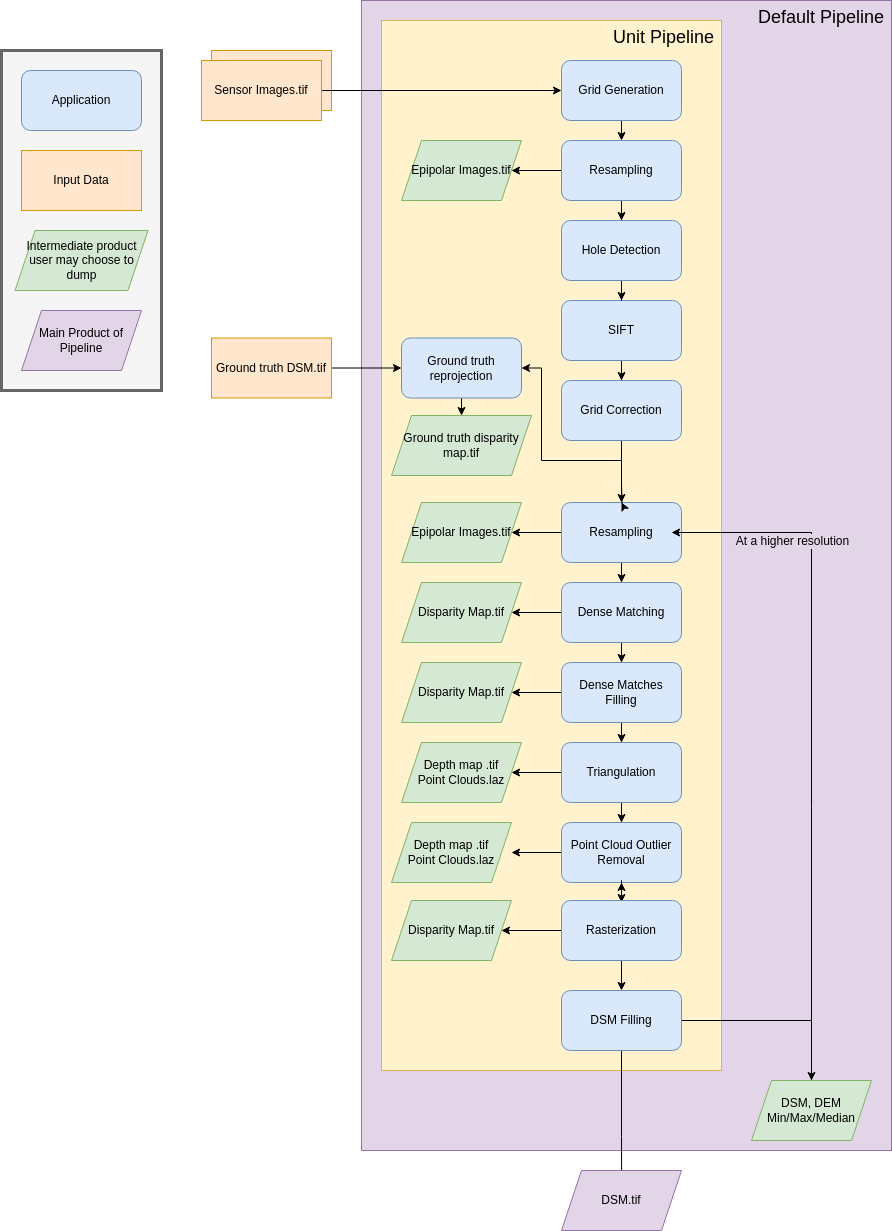
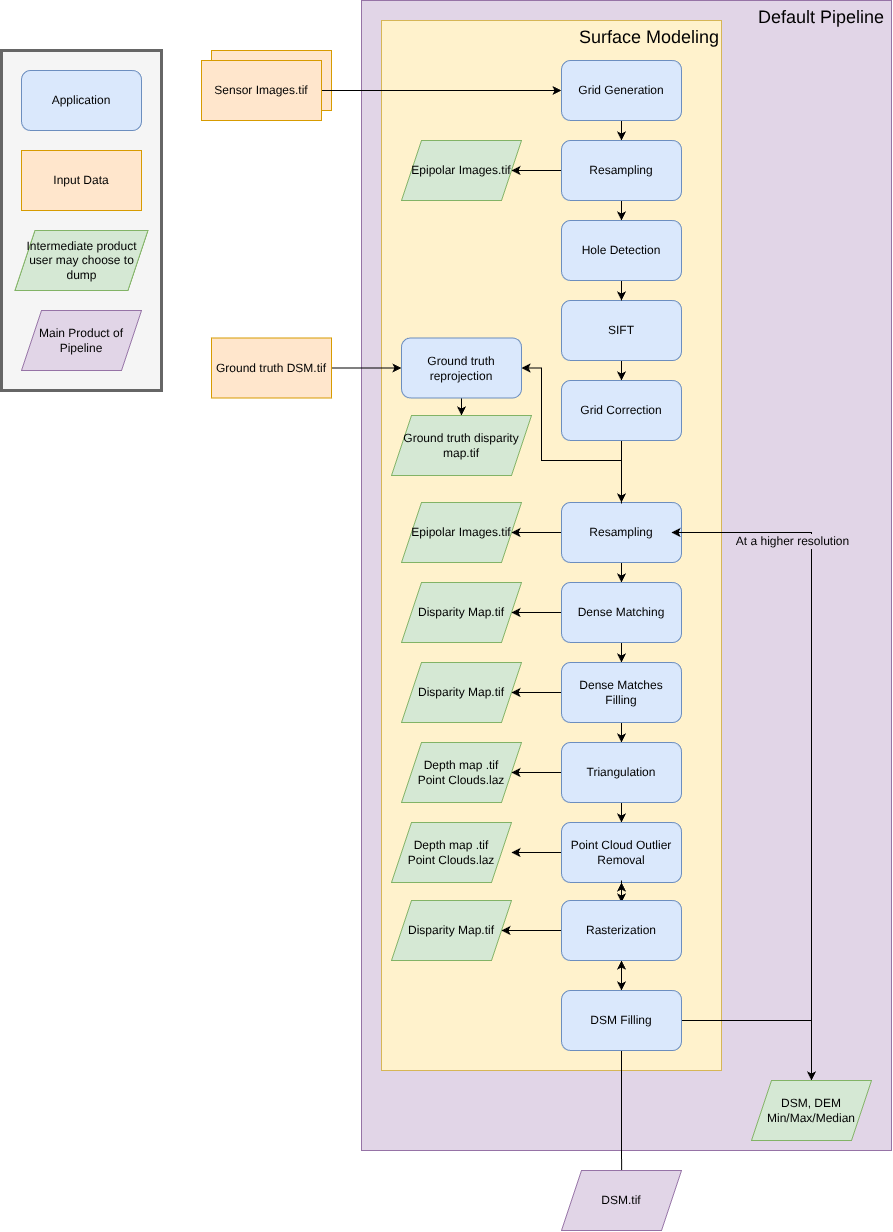
doc: updated schema and added a link that redirect to the tuto

diff --git a/docs/source/configuration/pipelines/surface_modeling.rst b/docs/source/configuration/pipelines/surface_modeling.rst
@@ -120,6 +120,8 @@ Ground truth DSM
     To activate the ground truth reprojection application, it is necessary to specify the required inputs in the advanced settings.
     For this, a dictionary named `ground_truth_dsm` must be added, containing the keys presented in the following table.
     By default, the used dsm is considered on ellipsoid. If not, fill the `geoid` parameter.
+    
+    For more information, see the :ref:`ground_truth_reprojection tutorial <ground_truth_reprojection_tutorial>`.
 
     +---------------------------------+------------------------------------------------------------+--------------------+------------------------------+-------------------------------------------------------+----------+
     | Name                            | Description                                                | Type               | Available value              | Default value                                         | Required |

diff --git a/docs/source/configuration/applications/ground_truth_reprojection.rst b/docs/source/configuration/applications/ground_truth_reprojection.rst
@@ -7,10 +7,11 @@ Ground truth reprojection
 
 **Description**
 
-Generates epipolar and sensor ground truth from input dsm using direct localization.
-
+Generates epipolar and sensor ground truth from input dsm using direct localization. 
 * Sensor ground truth contains altitude in sensor geometry.
 * Epipolar ground truth contains disparity map in epipolar geometry.
+
+For more information, see the :ref:`ground_truth_reprojection tutorial <ground_truth_reprojection_tutorial>`.
 
 +---------------------------------+------------------------------------------------------------+------------+------------------------------+---------------+----------+
 | Name                            | Description                                                | Type       | Available value              | Default value | Required |

diff --git a/docs/source/general_examples/additional_tips.rst b/docs/source/general_examples/additional_tips.rst
@@ -304,6 +304,8 @@ If you want to upscale or downscale the resolution of you input data, use raster
             dst.write(data)
 
 
+.. _ground_truth_reprojection_tutorial:
+
 How to use the ground truth reprojection application
 =======================================================
 
